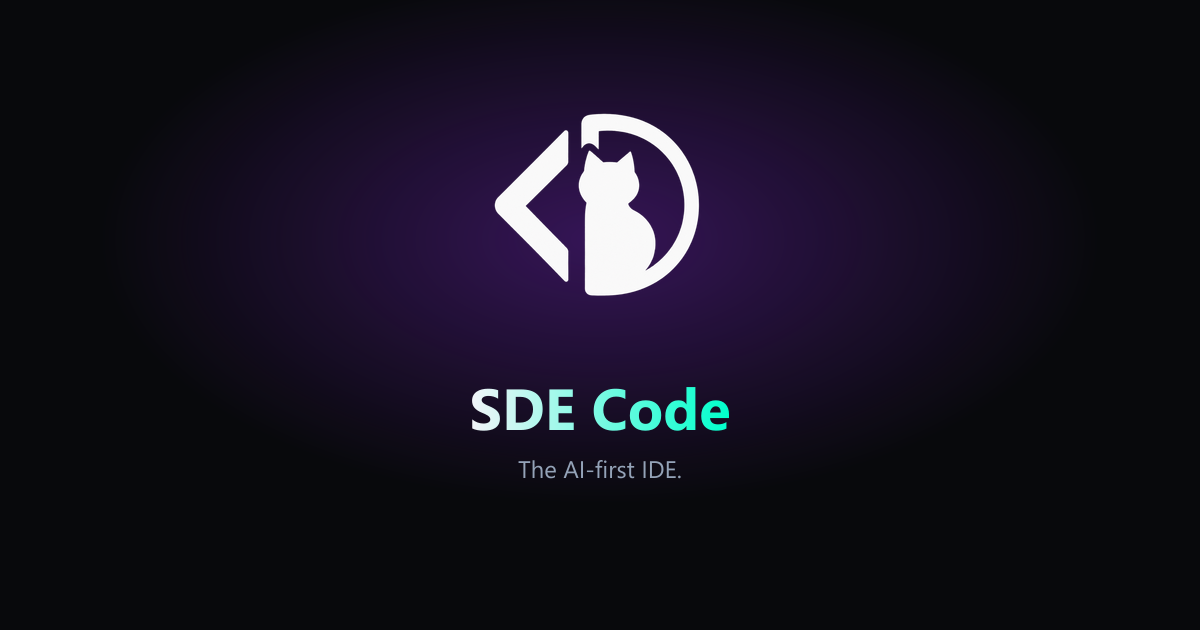
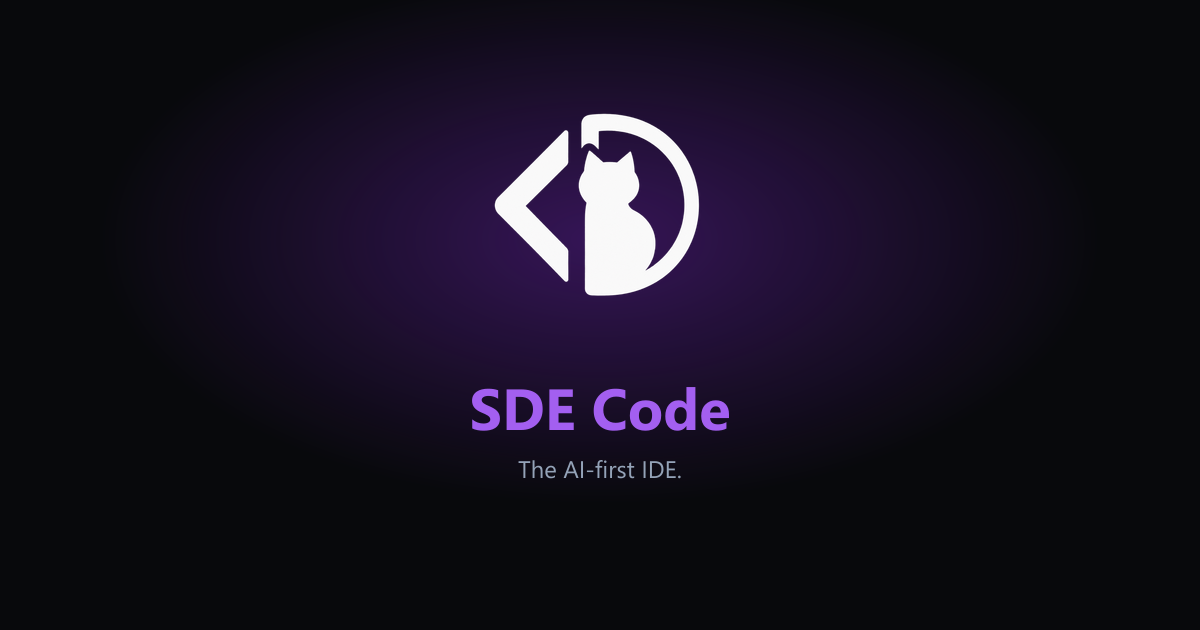
Unify accent color to the OG image's purple (#8a2be2), removing the leftover cyan gradient from the social card title

Changed region(s): [[0.37, 0.6032, 0.6167, 0.6937]]

diff --git a/src/styles/tokens.css b/src/styles/tokens.css
@@ -7,10 +7,10 @@
   --bg-tertiary: #1b1f2b;
   --border-color: rgba(255, 255, 255, 0.08);
 
-  /* A single indigo/violet accent family — --accent-purple is the same hue, one step darker,
-     used only for hover/glow depth so it reads as one cohesive color, not two competing ones. */
-  --accent-cyan: #6366f1;
-  --accent-purple: #4f46e5;
+  /* A single violet accent family, matching the OG social-card image's background glow —
+     --accent-purple is the same hue, one step darker, used only for hover/glow depth. */
+  --accent-cyan: #8a2be2;
+  --accent-purple: #6d1fc4;
 
   --text-primary: #f1f5f9;
   --text-secondary: #94a3b8;
@@ -62,10 +62,10 @@
     --bg-tertiary: #f1f5f9;
     --border-color: rgba(15, 23, 42, 0.1);
 
-    /* One step darker than the dark-mode pair — plain #6366f1/#4f46e5 read a little washed
-       out against a white background, this keeps contrast comfortable for body text and links. */
-    --accent-cyan: #4f46e5;
-    --accent-purple: #4338ca;
+    /* One step darker than the dark-mode pair — plain #8a2be2 reads a little washed out
+       against a white background, this keeps contrast comfortable for body text and links. */
+    --accent-cyan: #6d1fc4;
+    --accent-purple: #5b1aa3;
 
     --text-primary: #0f172a;
     --text-secondary: #475569;
